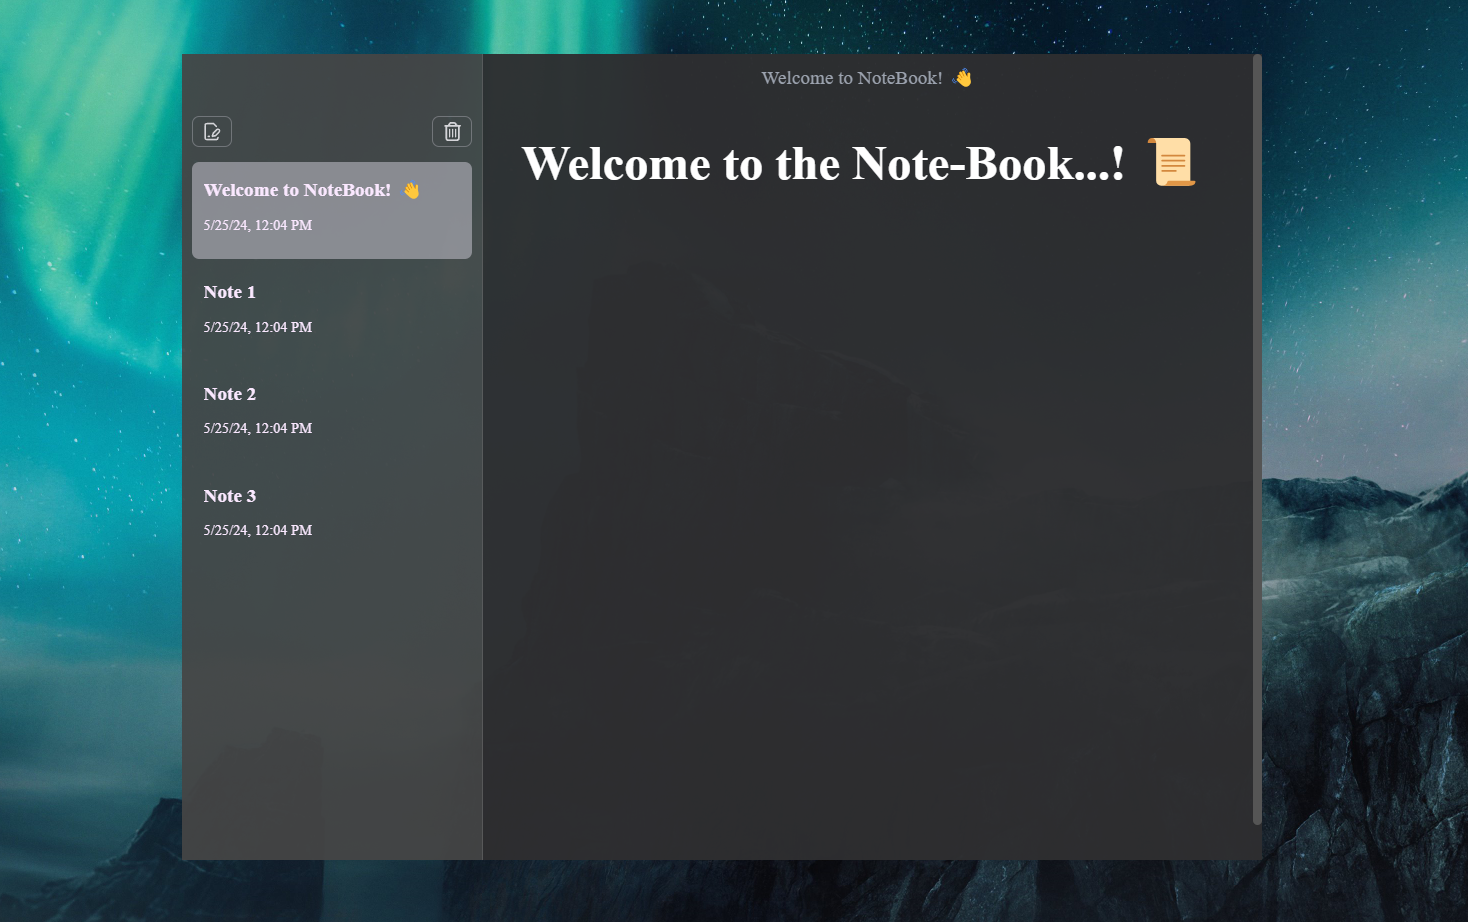
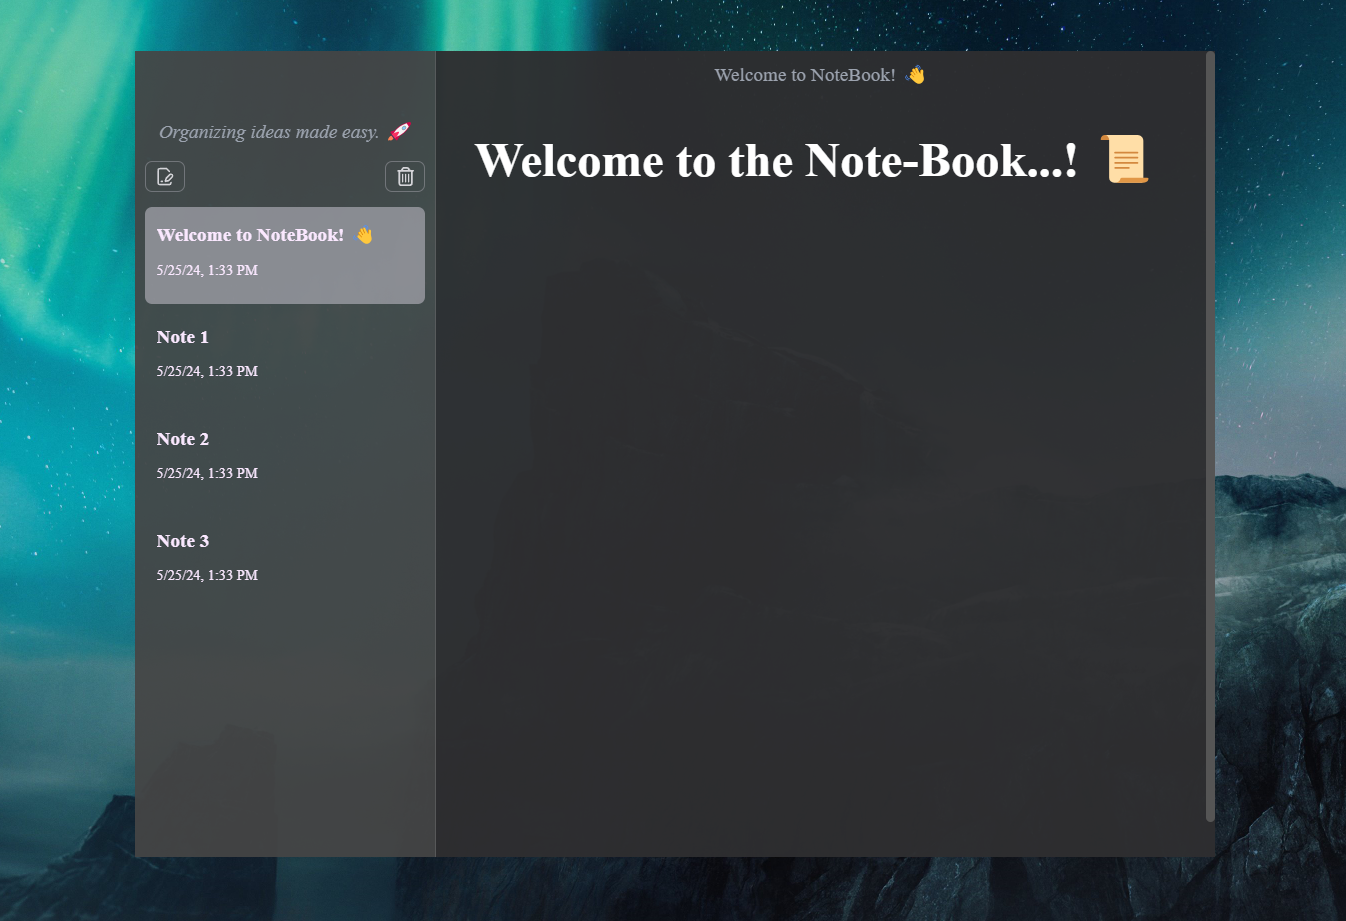
Update

diff --git a/src/renderer/src/components/AppLayout.tsx b/src/renderer/src/components/AppLayout.tsx
@@ -8,9 +8,14 @@ export const RootLayout = ({ className, children, ...props }: ComponentProps<'ma
 }
 
 export const Sidebar = ({ className, children, ...props }: ComponentProps<'aside'>) => {
-    return <aside className={twMerge('w-[250px] mt-10 h-[100vh + 10px] overflow-auto', className)}{...props}>
-        {children}
-    </aside>
+    return (
+        <aside className={twMerge('w-[250px] mt-10 h-[100vh + 10px] overflow-auto', className)}{...props}>
+            <div className={twMerge('flex justify-center italic', className)}>
+                <span className="text-gray-400">Organizing ideas made easy. 🚀</span>
+            </div>
+            {children}
+        </aside>
+    )
 }
 
 export const Content = forwardRef<HTMLDivElement, ComponentProps<'div'>>(

diff --git a/src/renderer/src/components/FloatingNoteTitle.tsx b/src/renderer/src/components/FloatingNoteTitle.tsx
@@ -8,7 +8,7 @@ export const FloatingNoteTitle = ({ className, ...props }: ComponentProps<'div'>
 
     if (!selectedNote) return (
         <div className={twMerge('flex justify-center', className)}{...props}>
-            <span className="text-gray-400">Welcome to NoteBook...! 👋</span>
+            <span className="text-gray-400">Welcome to NoteBook...! 📜</span>
         </div>
     ) //! return null if-needed
     return (

diff --git a/src/renderer/src/components/NotePreviewList.tsx b/src/renderer/src/components/NotePreviewList.tsx
@@ -1,4 +1,3 @@
-import { notesMock } from "@/store/mocks"
 import { ComponentProps } from "react"
 import { NotePreview } from "@/components/NotePreview"
 import { twMerge } from "tailwind-merge"
